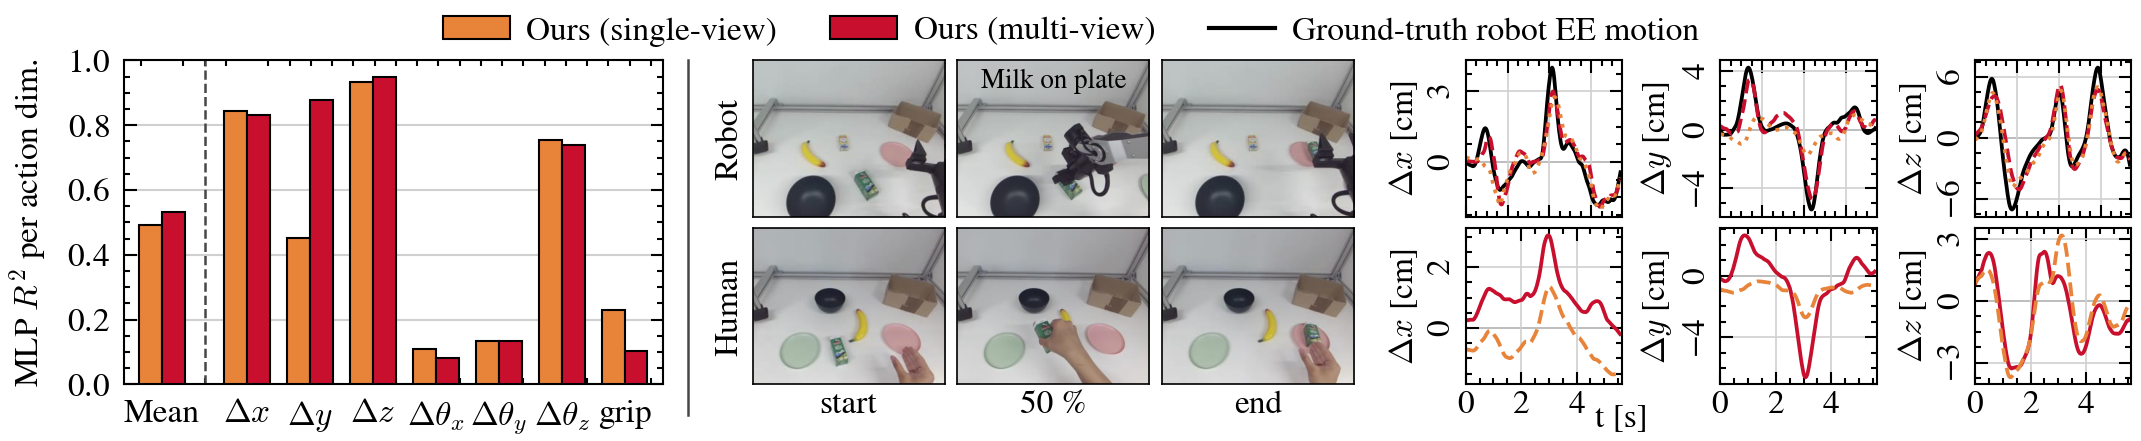
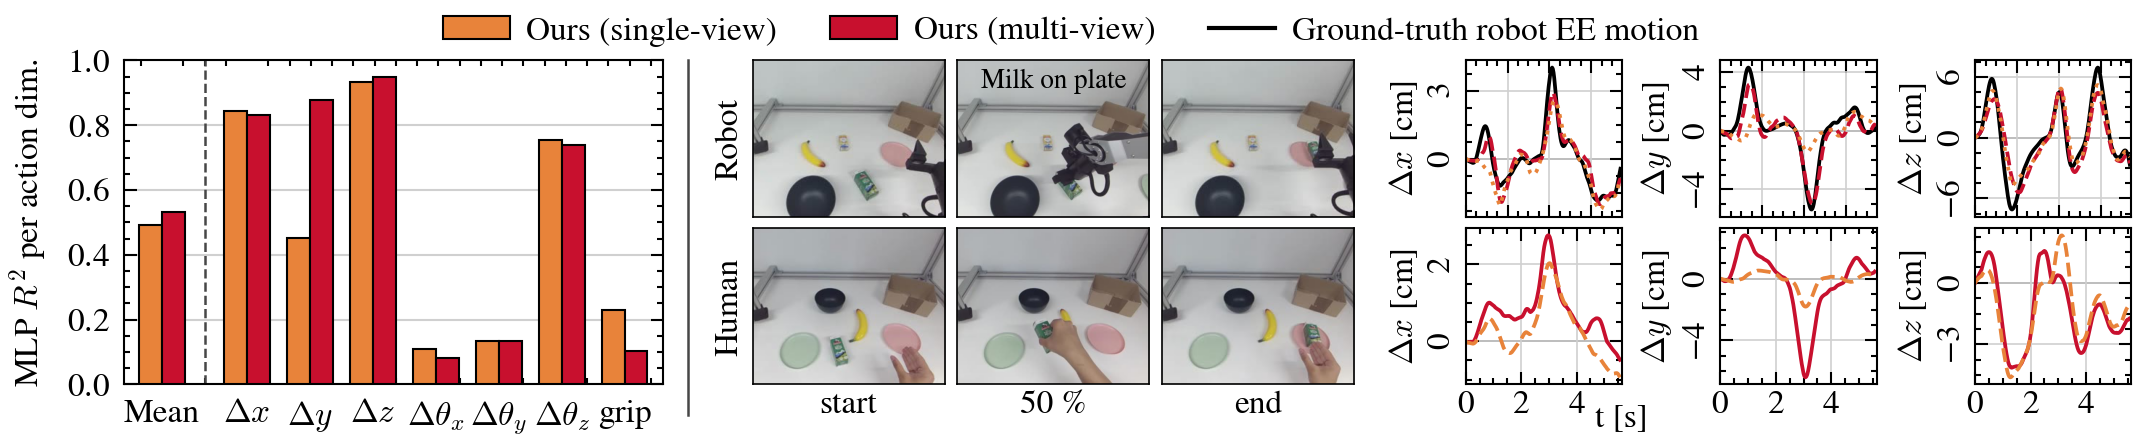
realworld_probe_decoded: traces start at 0; libero_scaling_row: new rows; rebuilt figures
Claude-Session: https://claude.ai/code/session_01CKZJVBVCyaLxjm5adVChTH

diff --git a/plot_realworld_probe_decoded.py b/plot_realworld_probe_decoded.py
@@ -44,6 +44,16 @@ CROP = (0.17, 1.0, 0.10, 1.0)  # x0, x1, y0, y1
 CROP_ASPECT = ((CROP[1] - CROP[0]) * 4) / ((CROP[3] - CROP[2]) * 3)  # width / height of the cropped tile
 BAR_W, GAP_MEAN = 0.36, 0.35
 LEGEND = [("ours_single", "Ours (single-view)"), ("ours_multi", "Ours (multi-view)")]  # short, as in plot_probe_tsne_combo.py
+# 2026-10-03 (user): every trace in the right block starts at 0 at t=0, i.e. each smoothed curve
+# (ground truth and both decodings) is shifted by its own first value. Presentation only; the
+# CSV traces are untouched.
+ZERO_START = True
+
+
+def trace(v):
+    """Smoothed trace in cm; with ZERO_START the curve is offset so that it starts at 0."""
+    y = 100 * smooth(v)
+    return y - y[0] if ZERO_START else y
 
 
 def probe_panel(ax, r2):
@@ -155,9 +165,9 @@ def main():
         for c, (dk, dlabel) in enumerate(DIMS["delta"]):
             ax = fig.add_axes([x_traces + c * (trace_w + TRACE_GAP), y0, trace_w, row_h])
             if kind == "robot_3cam":
-                ax.plot(t, 100 * smooth(sub[f"gt_{dk}"]), color=style.INK, linewidth=0.9)
+                ax.plot(t, trace(sub[f"gt_{dk}"]), color=style.INK, linewidth=0.9)
             for lk, _ in LAMS:
-                ax.plot(t, 100 * smooth(sub[f"{lk}_{a.probe}_{dk}"]), color=colors[lk], linewidth=0.9)
+                ax.plot(t, trace(sub[f"{lk}_{a.probe}_{dk}"]), color=colors[lk], linewidth=0.9)
             ax.axhline(0, color=style.INK_MUTED, linewidth=0.4, zorder=0)
             ax.grid(color=style.GRID, linewidth=0.4)
             ax.set_xlim(t[0], t[-1])

diff --git a/plot_libero_scaling_row.py b/plot_libero_scaling_row.py
@@ -214,7 +214,10 @@ def main():
     # The separator: a thin muted rule halfway between the lowest dual-view and
     # the highest single-view mean. It only makes sense while the curves do not
     # cross, so refuse to draw a lie if they ever do.
-    lo_dual, hi_single = ys["video_sr"].min(), ys["sideview_sr"].max()
+    # An x whose cell is still empty for one arm (NaN in the CSV, e.g. the 3-embodiment
+    # dual-view policy while it is still being evaluated, 2026-10-03) is skipped for that
+    # arm only: the line joins its finite points and the other arm keeps its point there.
+    lo_dual, hi_single = np.nanmin(ys["video_sr"]), np.nanmax(ys["sideview_sr"])
     if lo_dual <= hi_single:
         raise SystemExit(f"(c): dual-view ({lo_dual:.1f}) no longer above single-view "
                          f"({hi_single:.1f}) everywhere -- drop the separator rule")
@@ -224,7 +227,8 @@ def main():
           f"(dual-view min {lo_dual:.1f}, single-view max {hi_single:.1f})")
     for mi, m in enumerate(METHODS):
         if m in ys:
-            ax.plot(pos, ys[m], zorder=3, **line_kw(mi, "mean"))
+            ok = np.isfinite(ys[m])
+            ax.plot(pos[ok], ys[m][ok], zorder=3, **line_kw(mi, "mean"))
     axis_common(ax, xs, SPAN_YLIM, SPAN_YTICKS)
     ax.set_xticklabels([str(int(x)) for x in xs])
     ax.set_xlabel(SWEEP_XLABELS[SPAN_COL], labelpad=1.5)
